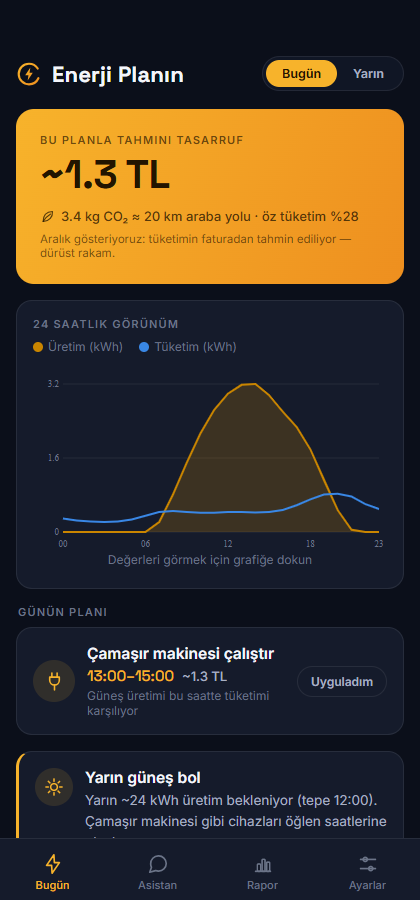
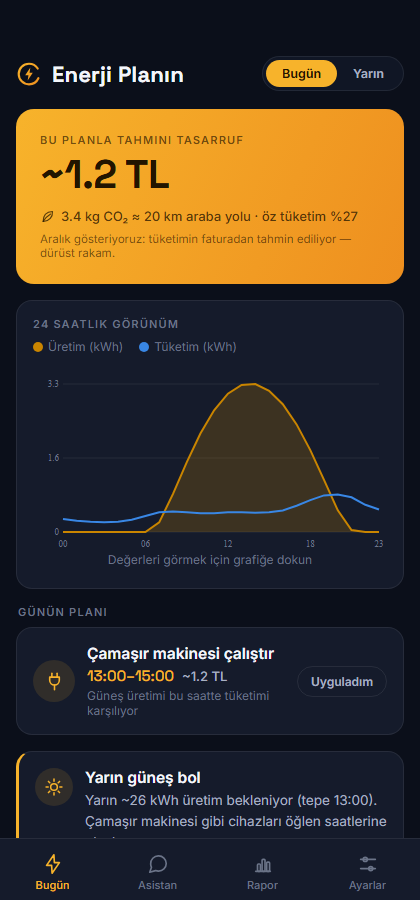
Update wordmark and README product screenshots with Wattra branding

diff --git a/mobile/src/components/Brand.js b/mobile/src/components/Brand.js
@@ -34,7 +34,7 @@ export function LogoMark({ size = 34 }) {
 export function Wordmark({ size = 24 }) {
   return (
     <Text style={{ fontFamily: font.title, fontSize: size, color: colors.ink, letterSpacing: 0.5 }}>
-      volta<Text style={{ color: colors.amber }}>ic</Text>
+      watt<Text style={{ color: colors.amber }}>ra</Text>
     </Text>
   );
 }